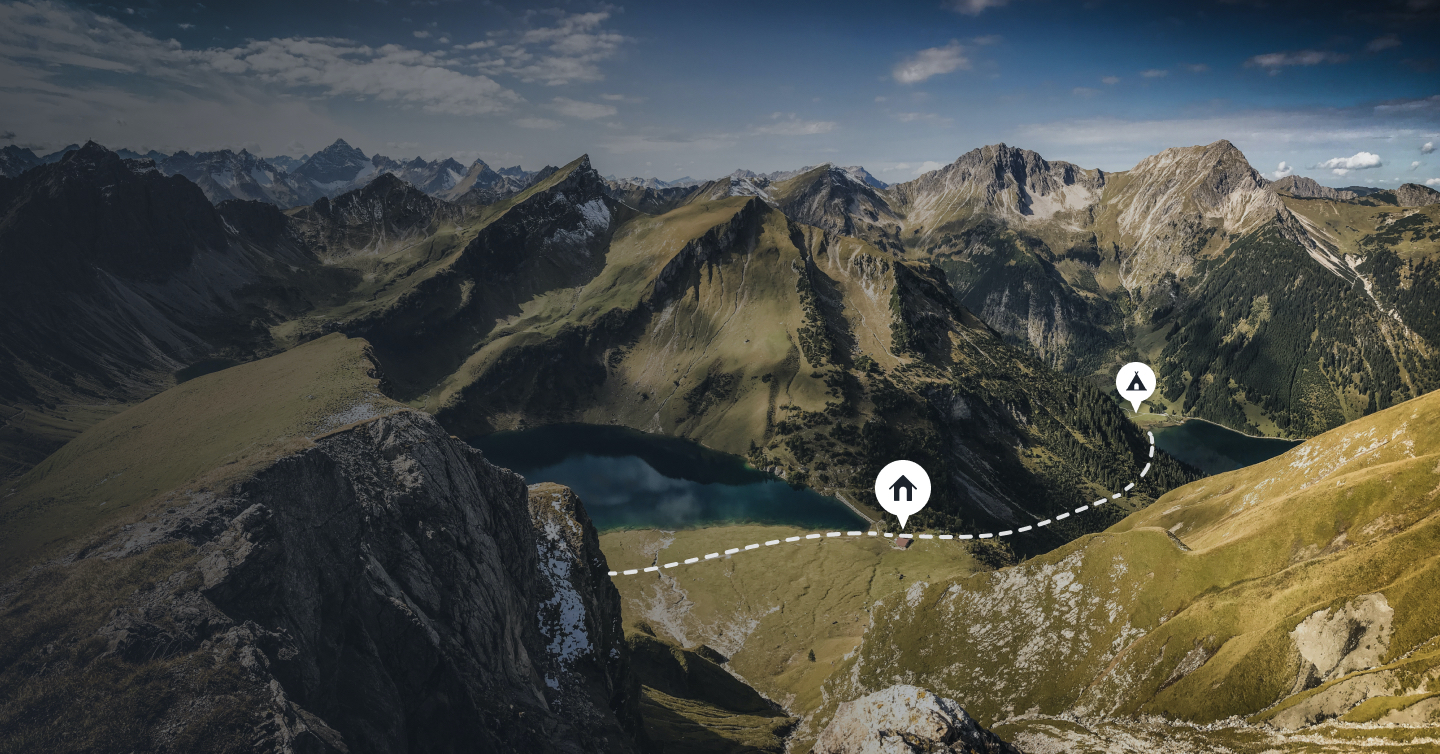
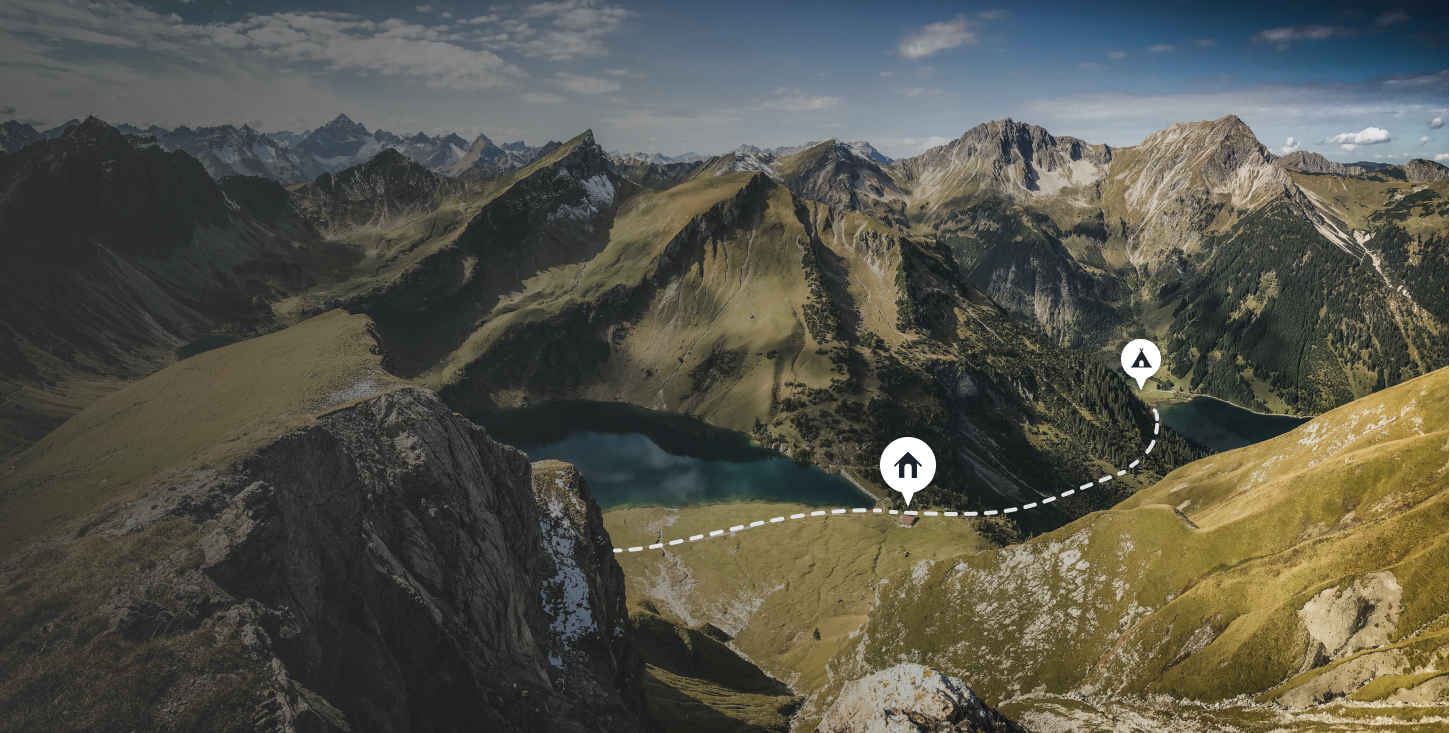
Footer done

diff --git a/index.html b/index.html
@@ -19,6 +19,12 @@
   <body>
     <div class="banner">
       <div class="container">
+        <svg width="75" height="64" viewBox="0 0 75 64" fill="none" xmlns="http://www.w3.org/2000/svg">
+          <path d="M41.2035 1L44.1664 6.18519L47.1294 1" stroke="#ffffff" stroke-width="2" stroke-linecap="round" stroke-linejoin="round"/>
+          <path d="M36.0184 22.7778L44.0492 6.44443L59.7221 37.5556H47.8055" stroke="#ffffff" stroke-width="2" stroke-linecap="round" stroke-linejoin="round"/>
+          <path d="M28.4968 38.5761H15.2779L25.9598 18.2963L38.1105 42L46.389 25.4074" stroke="#ffffff" stroke-width="2" stroke-linecap="round" stroke-linejoin="round"/>
+          <path d="M0.384 52.228H2.424L4.308 57.772L4.032 57.652L5.676 53.56L6.48 55.948L3.936 61.408L0.384 52.228ZM4.812 52.228H6.54L8.712 57.592L8.4 57.544L10.02 52.228H11.892L8.484 61.384L4.812 52.228ZM12.6699 61L16.6539 51.82H16.7499L20.7339 61H18.7179L16.1739 54.544L17.4339 53.68L14.3859 61H12.6699ZM15.3939 57.808H18.0459L18.6579 59.272H14.8539L15.3939 57.808ZM31.3694 61.36L24.6734 55.312L25.1894 55.6L25.2254 61H23.4614V51.82H23.5334L30.0854 57.844L29.7014 57.676L29.6654 52.168H31.4174V61.36H31.3694ZM35.1319 61V52.168H37.7719C38.6599 52.168 39.4159 52.3 40.0399 52.564C40.6639 52.828 41.1639 53.18 41.5399 53.62C41.9239 54.06 42.2039 54.552 42.3799 55.096C42.5559 55.64 42.6439 56.188 42.6439 56.74C42.6439 57.396 42.5239 57.988 42.2839 58.516C42.0519 59.036 41.7319 59.484 41.3239 59.86C40.9159 60.228 40.4439 60.512 39.9079 60.712C39.3719 60.904 38.8039 61 38.2039 61H35.1319ZM36.8719 59.32H37.9039C38.3439 59.32 38.7439 59.264 39.1039 59.152C39.4639 59.032 39.7719 58.86 40.0279 58.636C40.2919 58.412 40.4919 58.132 40.6279 57.796C40.7719 57.452 40.8439 57.06 40.8439 56.62C40.8439 56.044 40.7479 55.576 40.5559 55.216C40.3719 54.848 40.1399 54.564 39.8599 54.364C39.5879 54.164 39.3079 54.028 39.0199 53.956C38.7319 53.876 38.4879 53.836 38.2879 53.836H36.8719V59.32ZM45.8297 52.168H51.8537V53.848H47.5697V55.732H51.3617V57.412H47.5697V59.32H52.0217V61H45.8297V52.168ZM57.9379 52.168C58.4899 52.168 58.9819 52.24 59.4139 52.384C59.8459 52.52 60.2059 52.72 60.4939 52.984C60.7899 53.24 61.0139 53.552 61.1659 53.92C61.3179 54.28 61.3939 54.688 61.3939 55.144C61.3939 55.504 61.3379 55.864 61.2259 56.224C61.1219 56.584 60.9459 56.912 60.6979 57.208C60.4579 57.504 60.1379 57.744 59.7379 57.928C59.3379 58.104 58.8419 58.192 58.2499 58.192H57.0019V61H55.2619V52.168H57.9379ZM58.2379 56.512C58.5019 56.512 58.7219 56.468 58.8979 56.38C59.0739 56.292 59.2099 56.18 59.3059 56.044C59.4099 55.908 59.4819 55.768 59.5219 55.624C59.5699 55.472 59.5939 55.332 59.5939 55.204C59.5939 55.108 59.5779 54.988 59.5459 54.844C59.5219 54.692 59.4659 54.54 59.3779 54.388C59.2899 54.236 59.1539 54.108 58.9699 54.004C58.7939 53.9 58.5539 53.848 58.2499 53.848H57.0019V56.512H58.2379ZM59.8699 57.592L62.0539 61H60.0259L57.7939 57.64L59.8699 57.592ZM72.8364 61.36L66.1404 55.312L66.6564 55.6L66.6924 61H64.9284V51.82H65.0004L71.5524 57.844L71.1684 57.676L71.1324 52.168H72.8844V61.36H72.8364Z" fill="#ffffff"/>
+        </svg>
         <h1 class="title">Plan your trail accommodation</h1>
         <p class="subtitle">An easy way to find and book mountain huts and campsites on popular hiking trails.</p>
         <input type="text" class="input-email" placeholder="Email me when it’s ready">
@@ -54,16 +60,16 @@
     <div class="banner-navy">
       <div class="container features">
         <div class="feature">
-          <svg xmlns="http://www.w3.org/2000/svg" class="icon icon-tabler icon-tabler-file-export" width="48" height="48" viewBox="0 0 24 24" stroke-width="1.5" stroke="#ffffff" fill="none" stroke-linecap="round" stroke-linejoin="round">
+          <svg xmlns="http://www.w3.org/2000/svg" class="icon icon-tabler icon-tabler-file-export" width="48" height="48" viewBox="0 0 24 24" stroke-width="1" stroke="#ffffff" fill="none" stroke-linecap="round" stroke-linejoin="round">
             <path stroke="none" d="M0 0h24v24H0z" fill="none"/>
             <path d="M14 3v4a1 1 0 0 0 1 1h4" />
             <path d="M11.5 21h-4.5a2 2 0 0 1 -2 -2v-14a2 2 0 0 1 2 -2h7l5 5v5m-5 6h7m-3 -3l3 3l-3 3" />
           </svg>
           <p class="feature-title">EXPORT ITINERARY</p>
-          <p class="feature-description">Download your waypoints and route to use on any offline map app.</p>
+          <p class="feature-description">Export your itinerary's waypoints and route for use on any offline map app.</p>
         </div>
         <div class="feature">
-          <svg xmlns="http://www.w3.org/2000/svg" class="icon icon-tabler icon-tabler-messages" width="48" height="48" viewBox="0 0 24 24" stroke-width="1.5" stroke="#ffffff" fill="none" stroke-linecap="round" stroke-linejoin="round">
+          <svg xmlns="http://www.w3.org/2000/svg" class="icon icon-tabler icon-tabler-messages" width="48" height="48" viewBox="0 0 24 24" stroke-width="1" stroke="#ffffff" fill="none" stroke-linecap="round" stroke-linejoin="round">
             <path stroke="none" d="M0 0h24v24H0z" fill="none"/>
             <path d="M21 14l-3 -3h-7a1 1 0 0 1 -1 -1v-6a1 1 0 0 1 1 -1h9a1 1 0 0 1 1 1v10" />
             <path d="M14 15v2a1 1 0 0 1 -1 1h-7l-3 3v-10a1 1 0 0 1 1 -1h2" />
@@ -72,7 +78,7 @@
           <p class="feature-description">Read previous experiences at campsites and mountain huts from hikers.</p>
         </div>
         <div class="feature">
-          <svg xmlns="http://www.w3.org/2000/svg" class="icon icon-tabler icon-tabler-edit" width="48" height="48" viewBox="0 0 24 24" stroke-width="1.5" stroke="#ffffff" fill="none" stroke-linecap="round" stroke-linejoin="round">
+          <svg xmlns="http://www.w3.org/2000/svg" class="icon icon-tabler icon-tabler-edit" width="48" height="48" viewBox="0 0 24 24" stroke-width="1" stroke="#ffffff" fill="none" stroke-linecap="round" stroke-linejoin="round">
             <path stroke="none" d="M0 0h24v24H0z" fill="none"/>
             <path d="M9 7h-3a2 2 0 0 0 -2 2v9a2 2 0 0 0 2 2h9a2 2 0 0 0 2 -2v-3" />
             <path d="M9 15h3l8.5 -8.5a1.5 1.5 0 0 0 -3 -3l-8.5 8.5v3" />
@@ -84,8 +90,13 @@
       </div>
     </div>
     <div class="footer">
-      <div class="container">
-
+      <div class="container footer-content">
+        <svg width="64" height="54" viewBox="0 0 75 64" fill="none" xmlns="http://www.w3.org/2000/svg">
+          <path d="M41.2035 1L44.1664 6.18519L47.1294 1" stroke="#828282" stroke-width="2" stroke-linecap="round" stroke-linejoin="round"/>
+          <path d="M36.0184 22.7778L44.0492 6.44443L59.7221 37.5556H47.8055" stroke="#828282" stroke-width="2" stroke-linecap="round" stroke-linejoin="round"/>
+          <path d="M28.4968 38.5761H15.2779L25.9598 18.2963L38.1105 42L46.389 25.4074" stroke="#828282" stroke-width="2" stroke-linecap="round" stroke-linejoin="round"/>
+          <path d="M0.384 52.228H2.424L4.308 57.772L4.032 57.652L5.676 53.56L6.48 55.948L3.936 61.408L0.384 52.228ZM4.812 52.228H6.54L8.712 57.592L8.4 57.544L10.02 52.228H11.892L8.484 61.384L4.812 52.228ZM12.6699 61L16.6539 51.82H16.7499L20.7339 61H18.7179L16.1739 54.544L17.4339 53.68L14.3859 61H12.6699ZM15.3939 57.808H18.0459L18.6579 59.272H14.8539L15.3939 57.808ZM31.3694 61.36L24.6734 55.312L25.1894 55.6L25.2254 61H23.4614V51.82H23.5334L30.0854 57.844L29.7014 57.676L29.6654 52.168H31.4174V61.36H31.3694ZM35.1319 61V52.168H37.7719C38.6599 52.168 39.4159 52.3 40.0399 52.564C40.6639 52.828 41.1639 53.18 41.5399 53.62C41.9239 54.06 42.2039 54.552 42.3799 55.096C42.5559 55.64 42.6439 56.188 42.6439 56.74C42.6439 57.396 42.5239 57.988 42.2839 58.516C42.0519 59.036 41.7319 59.484 41.3239 59.86C40.9159 60.228 40.4439 60.512 39.9079 60.712C39.3719 60.904 38.8039 61 38.2039 61H35.1319ZM36.8719 59.32H37.9039C38.3439 59.32 38.7439 59.264 39.1039 59.152C39.4639 59.032 39.7719 58.86 40.0279 58.636C40.2919 58.412 40.4919 58.132 40.6279 57.796C40.7719 57.452 40.8439 57.06 40.8439 56.62C40.8439 56.044 40.7479 55.576 40.5559 55.216C40.3719 54.848 40.1399 54.564 39.8599 54.364C39.5879 54.164 39.3079 54.028 39.0199 53.956C38.7319 53.876 38.4879 53.836 38.2879 53.836H36.8719V59.32ZM45.8297 52.168H51.8537V53.848H47.5697V55.732H51.3617V57.412H47.5697V59.32H52.0217V61H45.8297V52.168ZM57.9379 52.168C58.4899 52.168 58.9819 52.24 59.4139 52.384C59.8459 52.52 60.2059 52.72 60.4939 52.984C60.7899 53.24 61.0139 53.552 61.1659 53.92C61.3179 54.28 61.3939 54.688 61.3939 55.144C61.3939 55.504 61.3379 55.864 61.2259 56.224C61.1219 56.584 60.9459 56.912 60.6979 57.208C60.4579 57.504 60.1379 57.744 59.7379 57.928C59.3379 58.104 58.8419 58.192 58.2499 58.192H57.0019V61H55.2619V52.168H57.9379ZM58.2379 56.512C58.5019 56.512 58.7219 56.468 58.8979 56.38C59.0739 56.292 59.2099 56.18 59.3059 56.044C59.4099 55.908 59.4819 55.768 59.5219 55.624C59.5699 55.472 59.5939 55.332 59.5939 55.204C59.5939 55.108 59.5779 54.988 59.5459 54.844C59.5219 54.692 59.4659 54.54 59.3779 54.388C59.2899 54.236 59.1539 54.108 58.9699 54.004C58.7939 53.9 58.5539 53.848 58.2499 53.848H57.0019V56.512H58.2379ZM59.8699 57.592L62.0539 61H60.0259L57.7939 57.64L59.8699 57.592ZM72.8364 61.36L66.1404 55.312L66.6564 55.6L66.6924 61H64.9284V51.82H65.0004L71.5524 57.844L71.1684 57.676L71.1324 52.168H72.8844V61.36H72.8364Z" fill="#828282"/>
+        </svg>
         <div class="footer-links">
           <a href="#">Contact</a>
           <a href="#">Privacy Policy</a>

diff --git a/assets/stylesheets/components/step.css b/assets/stylesheets/components/step.css
@@ -6,7 +6,7 @@
 .step > p {
     font-family: 'Circular Std';
     font-weight: normal;
-    font-size: 320px;
+    font-size: 300px;
     color: #f2f2f2;
     margin: 0;
     width: 200px;
@@ -39,7 +39,7 @@
 }
 
 .btn-outlined:hover {
-  background: #333333;
+  background: #A31621;
+  border: 2px solid #A31621;
   color: white;
-  font-weight: normal;
 }

diff --git a/assets/stylesheets/components/footer.css b/assets/stylesheets/components/footer.css
@@ -6,4 +6,12 @@
 .footer a {
   font-weight: bold;
   color: #828282;
+  margin: 0 8px;
+  font-size: 14px;
+}
+
+.footer-content {
+  display: flex;
+  justify-content: space-between;
+  align-items: center;
 }

diff --git a/assets/stylesheets/components/banner.css b/assets/stylesheets/components/banner.css
@@ -1,8 +1,8 @@
 .banner {
-  height: 80vh;
+  height: 640px;
   background-image: url(../../images/banner.jpg);
+  background-position: center;
   display: flex;
-  align-items: center;
 }
 
 .title {

diff --git a/assets/stylesheets/components/feature.css b/assets/stylesheets/components/feature.css
@@ -6,7 +6,8 @@
 .features {
   display: flex;
   justify-content: space-around;
-  padding: 48px 0 64px 0;
+  padding: 56px 0 72px 0;
+  flex-wrap: wrap;
 }
 
 .feature {

diff --git a/assets/stylesheets/components/container.css b/assets/stylesheets/components/container.css
@@ -1,4 +1,4 @@
 .container {
   margin: auto;
-  width: 1245px;
+  width: 80vw;
 }
